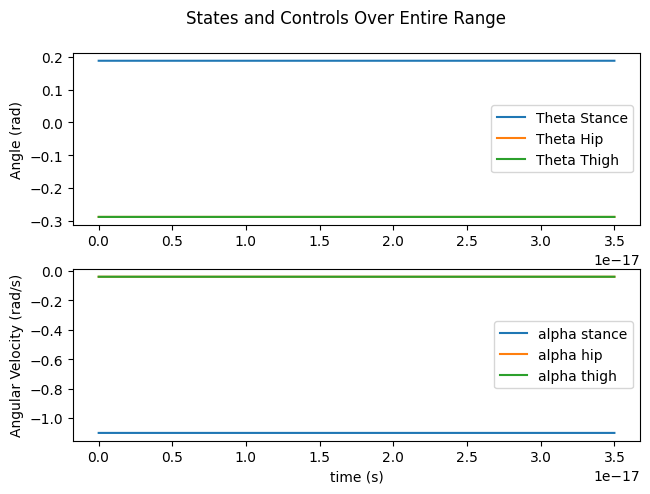
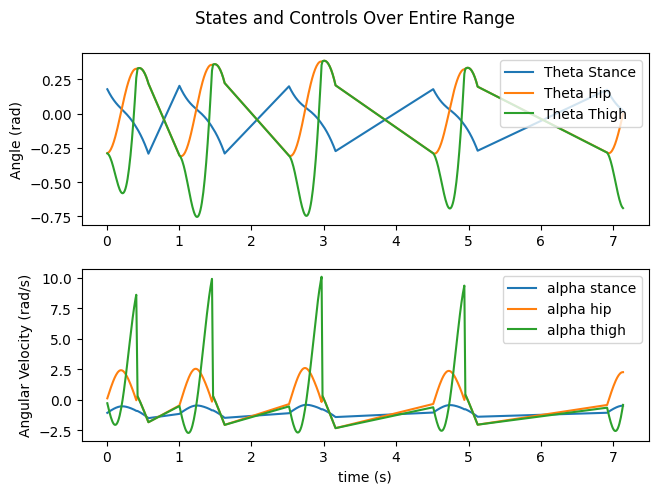
three link working better

diff --git a/code/do-mpc/example/threelink/threelink_main.py b/code/do-mpc/example/threelink/threelink_main.py
@@ -9,8 +9,8 @@ sys.path.append(rel_do_mpc_path)
 import do_mpc
 
 # set simulation parameters
-num_steps = 350000000000
-delta_t = 1*10**(-20)
+num_steps = 2000
+delta_t = .001
 
 #import unlocked
 from sys_unlocked import model_unlocked
@@ -123,14 +123,14 @@ for i in range(num_steps):
 
     u0 = mpc_unlocked.make_step(x0)
     x0 = simulator_unlocked.make_step(u0)
-    #if (i+1) % 10 == 0:
-    x1_result = np.concatenate((x1_result, curx1))
-    x2_result = np.concatenate((x2_result, curx2))
-    x3_result = np.concatenate((x3_result, curx3))
-    x4_result = np.concatenate((x4_result, curx4))
-    x5_result = np.concatenate((x5_result, curx5))
-    x6_result = np.concatenate((x6_result, curx6))
-    time_result = np.concatenate((time_result, curtime))
+    if (i+1) % 10 == 0:
+        x1_result = np.concatenate((x1_result, curx1))
+        x2_result = np.concatenate((x2_result, curx2))
+        x3_result = np.concatenate((x3_result, curx3))
+        x4_result = np.concatenate((x4_result, curx4))
+        x5_result = np.concatenate((x5_result, curx5))
+        x6_result = np.concatenate((x6_result, curx6))
+        time_result = np.concatenate((time_result, curtime))
 
     # start inner loop
     if (curx2-curx3 < 0) and (stepnum-marker > 5):
@@ -171,19 +171,19 @@ for i in range(num_steps):
                 x0 = np.array([newstates[1], newstates[0], newstates[0], newstates[3], newstates[2], newstates[2]]).reshape(-1,1)
                 simulator_unlocked.x0 = x0
                 kneelock = False
-                stop = True
+                #stop = True
             
             if kneelock == True:
                 u0 = mpc_locked.make_step(x0)
                 x0 = simulator_locked.make_step(u0)
-                #if (num_locked) % 10 == 0:
-                x1_result = np.concatenate((x1_result, curx2))
-                x2_result = np.concatenate((x2_result, curx1))
-                x3_result = np.concatenate((x3_result, curx1))
-                x4_result = np.concatenate((x4_result, curx4))
-                x5_result = np.concatenate((x5_result, curx3))
-                x6_result = np.concatenate((x6_result, curx3))
-                time_result = np.concatenate((time_result, curtime))
+                if (num_locked) % 10 == 0:
+                    x1_result = np.concatenate((x1_result, curx2))
+                    x2_result = np.concatenate((x2_result, curx1))
+                    x3_result = np.concatenate((x3_result, curx1))
+                    x4_result = np.concatenate((x4_result, curx4))
+                    x5_result = np.concatenate((x5_result, curx3))
+                    x6_result = np.concatenate((x6_result, curx3))
+                    time_result = np.concatenate((time_result, curtime))
             if num_locked > 5000:
                 stop = True
                 break
@@ -217,7 +217,7 @@ x6_result = x[:,5]"""
 
 # animate motion of the compass gait
 from animate_threelink import animate_threelink
-#animate_threelink(x1_result, x2_result,x3_result, a1, b1, a2, b2, phi, saveFig=True, gif_fps=18, name=threeleg_dir+'threeleg.gif')
+animate_threelink(x1_result, x2_result,x3_result, a1, b1, a2, b2, phi, saveFig=True, gif_fps=18, name=threeleg_dir+'threeleg.gif')
 
 #import plot fns
 from plot_results import plot_timeseries, plot_gait

diff --git a/code/do-mpc/example/threelink/plot_results.py b/code/do-mpc/example/threelink/plot_results.py
@@ -36,7 +36,7 @@ def plot_gait(x1arr, x2arr, x3arr, x4arr, x5arr, x6arr, dir='./research_template
     fig, ax = plt.subplots()
     ax.plot(x2arr, x5arr, linewidth=1.0, label='x2x5')
     ax.plot(x1arr, x4arr, linewidth=1.0, label='x1x4')
-    ax.plot(x3arr, x6arr, linewidth=1.0, label='x3x6')
+    #ax.plot(x3arr, x6arr, linewidth=1.0, label='x3x6')
     ax.set_xlabel('angle')
     ax.set_ylabel('angular velocity')
     ax.legend()

diff --git a/code/do-mpc/example/threelink/threelink_trans.py b/code/do-mpc/example/threelink/threelink_trans.py
@@ -13,9 +13,9 @@ def kneestrike(x1, x2, x3, x4, x5, x6,a1=0.375, a2=0.175, b1=0.125, b2=0.325, mh
     lt = a2+b2
     L = ls + lt
     
-    alpha = np.cos(x1-x2)
-    beta = np.cos(x1-x3)
-    gamma = np.cos(x2-x3)
+    alpha = x1-x2
+    beta = x1-x3
+    gamma = x2-x3
 
     # pre matrix
     Q11_minus = -(ms*lt + mt*b2)*L*np.cos(alpha) - ms*b1*L*np.cos(beta) + (mt + ms +mh)*L**2 + ms*a1**2 + mt*(ls+a2)**2

diff --git a/code/do-mpc/example/threelink/sys_locked.py b/code/do-mpc/example/threelink/sys_locked.py
@@ -27,7 +27,7 @@ def model_locked():
     a = 0.5
     b = 0.5
     mh = 10
-    m = .1
+    m = 5
     phi = 0.05
     l = a + b
     g = 9.81
